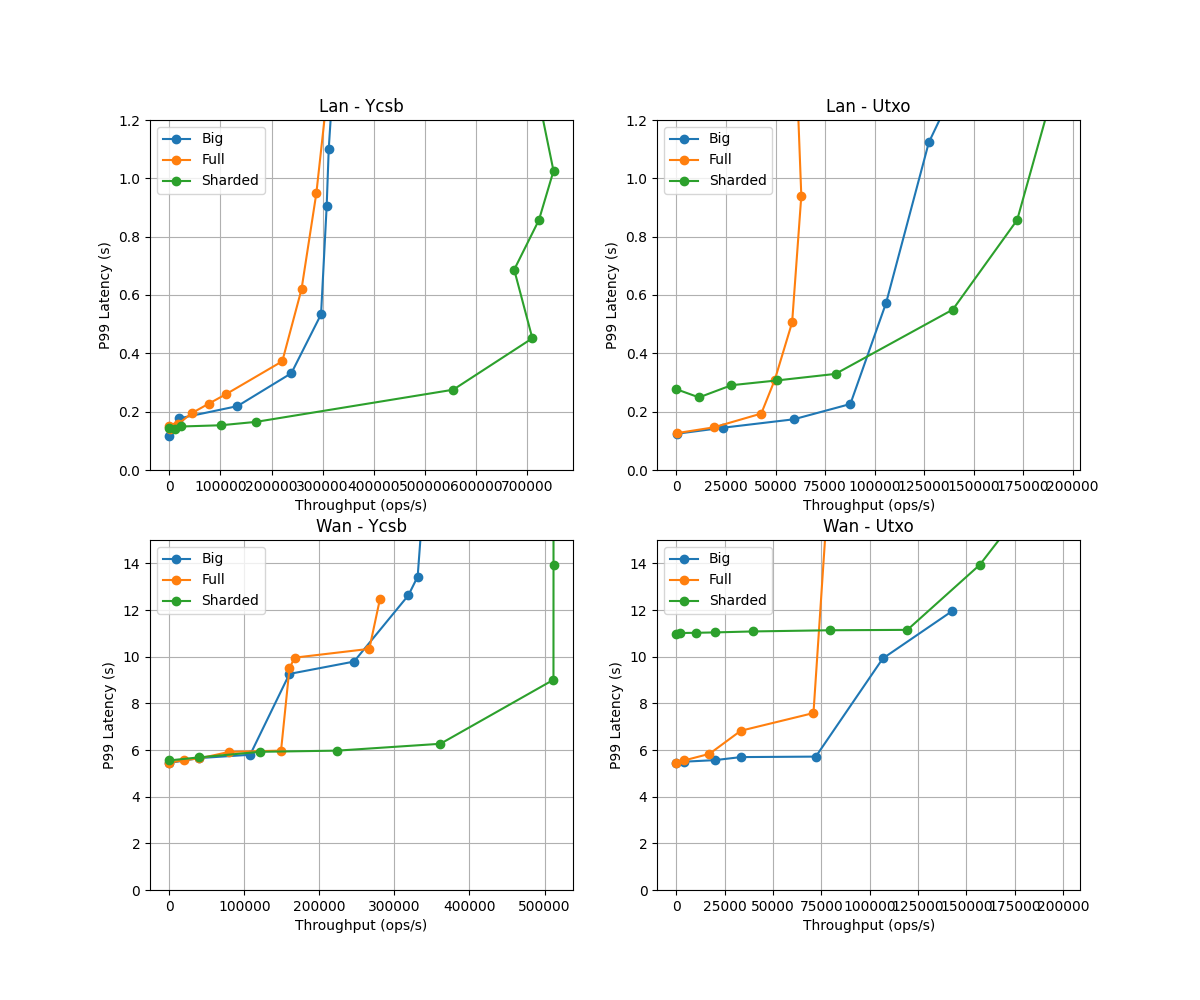
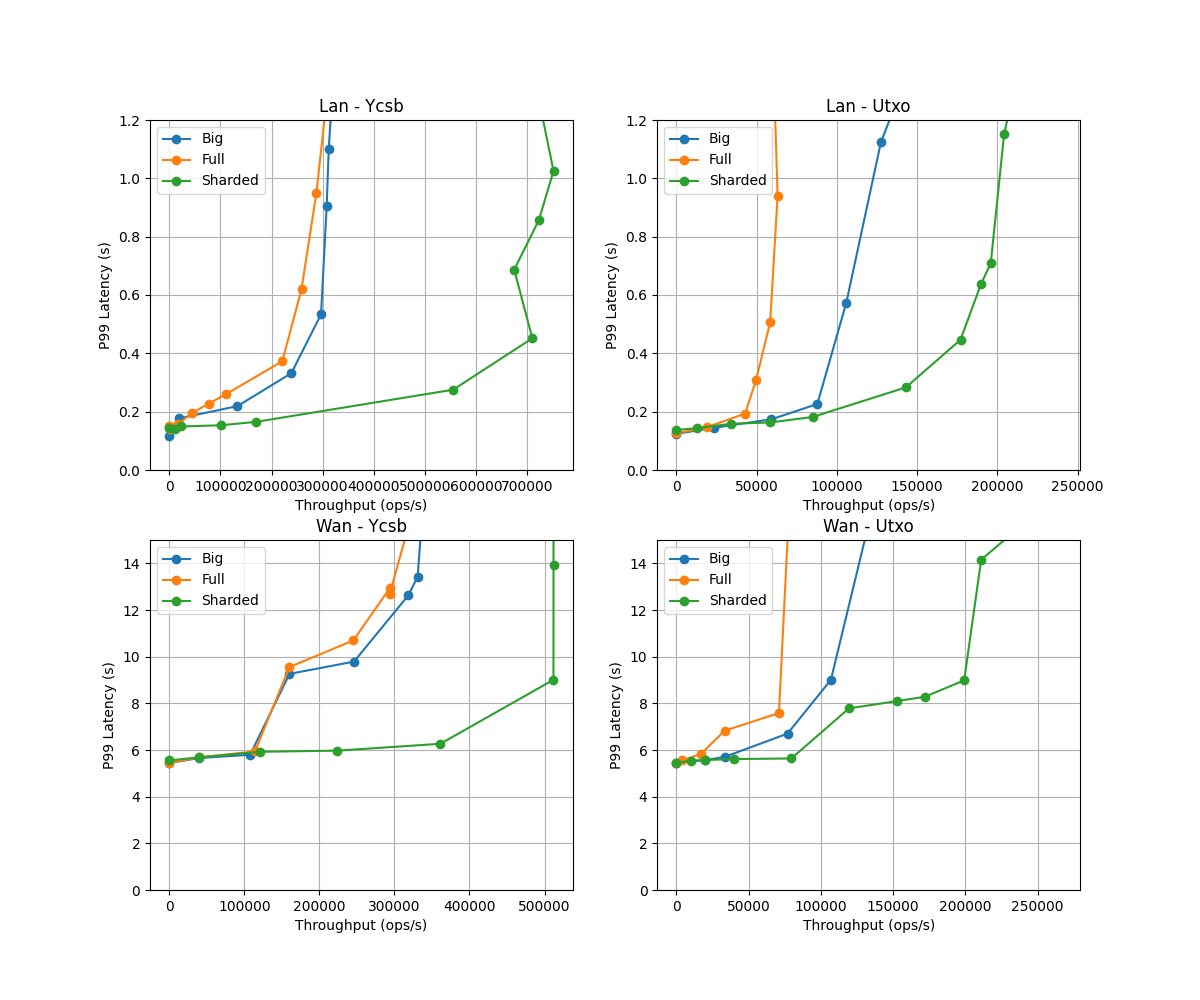
feat(data): tput latency

diff --git a/control/src/bin/tput-latency.rs b/control/src/bin/tput-latency.rs
@@ -60,25 +60,31 @@ async fn main() -> anyhow::Result<()> {
         }
 
         (Network::Lan, App::Utxo, Setting::Full) => &[0, 100, 300, 600, 1000, 2000, 4000, 6000][..],
-        (Network::Lan, App::Utxo, Setting::Sharded) => {
-            &[0, 100, 300, 600, 1000, 3000, 6000, 10_000, 12_000][..]
-        }
+        (Network::Lan, App::Utxo, Setting::Sharded) => &[
+            0, 100, 300, 600, 1000, 3000, 6000, 10_000, 12_000, 20_000, 30_000, 40_000,
+        ][..],
         (Network::Lan, App::Utxo, Setting::Big) => {
             &[0, 100, 300, 600, 1000, 2000, 3000, 4000, 5000][..]
         }
 
-        (Network::Wan, App::Ycsb, Setting::Full) => &[0, 10_000, 30_000, 60_000, 100_000, 150_000],
-        (Network::Wan, App::Ycsb, Setting::Sharded) => &[
-            0, 10_000, 30_000, 60_000, 100_000, 200_000, 300_000, 400_000,
+        (Network::Wan, App::Ycsb, Setting::Full) => &[
+            0, 10_000, 30_000, 60_000, 100_000, 130_000, 160_000, 200_000, 300_000,
         ],
-        // (Network::Wan, App::Ycsb, Setting::Big) => &[0, 10_000, 30_000, 60_000, 100_000, 150_000, 200_000],
-        (Network::Wan, App::Ycsb, Setting::Big) => &[300_000],
+        (Network::Wan, App::Ycsb, Setting::Sharded) => &[
+            // 0, 10_000, 30_000, 60_000, 100_000, 200_000, 
+            300_000, 400_000,
+        ],
+        (Network::Wan, App::Ycsb, Setting::Big) => &[
+            0, 10_000, 30_000, 60_000, 100_000, 150_000, 200_000, 300_000,
+        ],
 
         (Network::Wan, App::Utxo, Setting::Full) => &[0, 5_000, 10_000, 20_000, 40_000, 60_000],
         (Network::Wan, App::Utxo, Setting::Sharded) => &[
+            0, 5_000, 10_000, 20_000, 40_000, 60_000, 80_000, 100_000, 150_000, 200_000, 300_000,
+        ],
+        (Network::Wan, App::Utxo, Setting::Big) => &[
             0, 5_000, 10_000, 20_000, 40_000, 60_000, 80_000, 100_000, 150_000,
         ],
-        (Network::Wan, App::Utxo, Setting::Big) => &[0, 5_000, 10_000, 20_000, 40_000, 60_000],
     };
 
     for &num_concurrent in num_concurrent {

diff --git a/src/workload/state.rs b/src/workload/state.rs
@@ -292,6 +292,7 @@ pub struct ShardedUtxoWorkingState {
     start: Instant,
     op: UtxoOp,
     status: ShardedUtxoStatus,
+    latency: Option<std::time::Duration>,
 }
 
 enum ShardedUtxoStatus {
@@ -322,6 +323,8 @@ impl<C: WorkloadContext> UtxoWorkload<C, ShardedUtxoWorkingState> {
                 *success &= shard_success;
                 if pending_shards.is_empty() {
                     self.invoke_txns.remove(&invoke_id);
+                    let latency = working.start.elapsed();
+                    working.latency = Some(latency);
 
                     let command = bincode::encode_to_vec(
                         ShardedUtxoOp::Commit(working.op.clone(), *success),
@@ -352,7 +355,7 @@ impl<C: WorkloadContext> UtxoWorkload<C, ShardedUtxoWorkingState> {
                     self.invoke_txns.remove(&invoke_id);
 
                     if *success {
-                        let latency = working.start.elapsed();
+                        let latency = working.latency.unwrap();
                         {
                             let mut scrape_state = self.scrape_state.lock().unwrap();
                             scrape_state.latency_histogram += latency.as_nanos() as u64;
@@ -394,6 +397,7 @@ impl<C: WorkloadContext> UtxoWorkload<C, ShardedUtxoWorkingState> {
                 start: Instant::now(),
                 op,
                 status: ShardedUtxoStatus::Preparing([shard].into(), true),
+                latency: None,
             },
         );
         self.invoke_txns.insert(invoke_id, txn_id);

diff --git a/control/src/configs/defaults.rs b/control/src/configs/defaults.rs
@@ -7,7 +7,7 @@ pub const READ_RATIO: f64 = 0.5;
 pub const NUM_CONCURRENT: u32 = 1;
 
 pub const THETA: f64 = 0.99;
-pub const CACHE_SIZE: usize = 8_000_000;
+pub const CACHE_SIZE: usize = 1000;
 
 #[derive(Debug, Clone, Copy)]
 pub struct Sharding {
